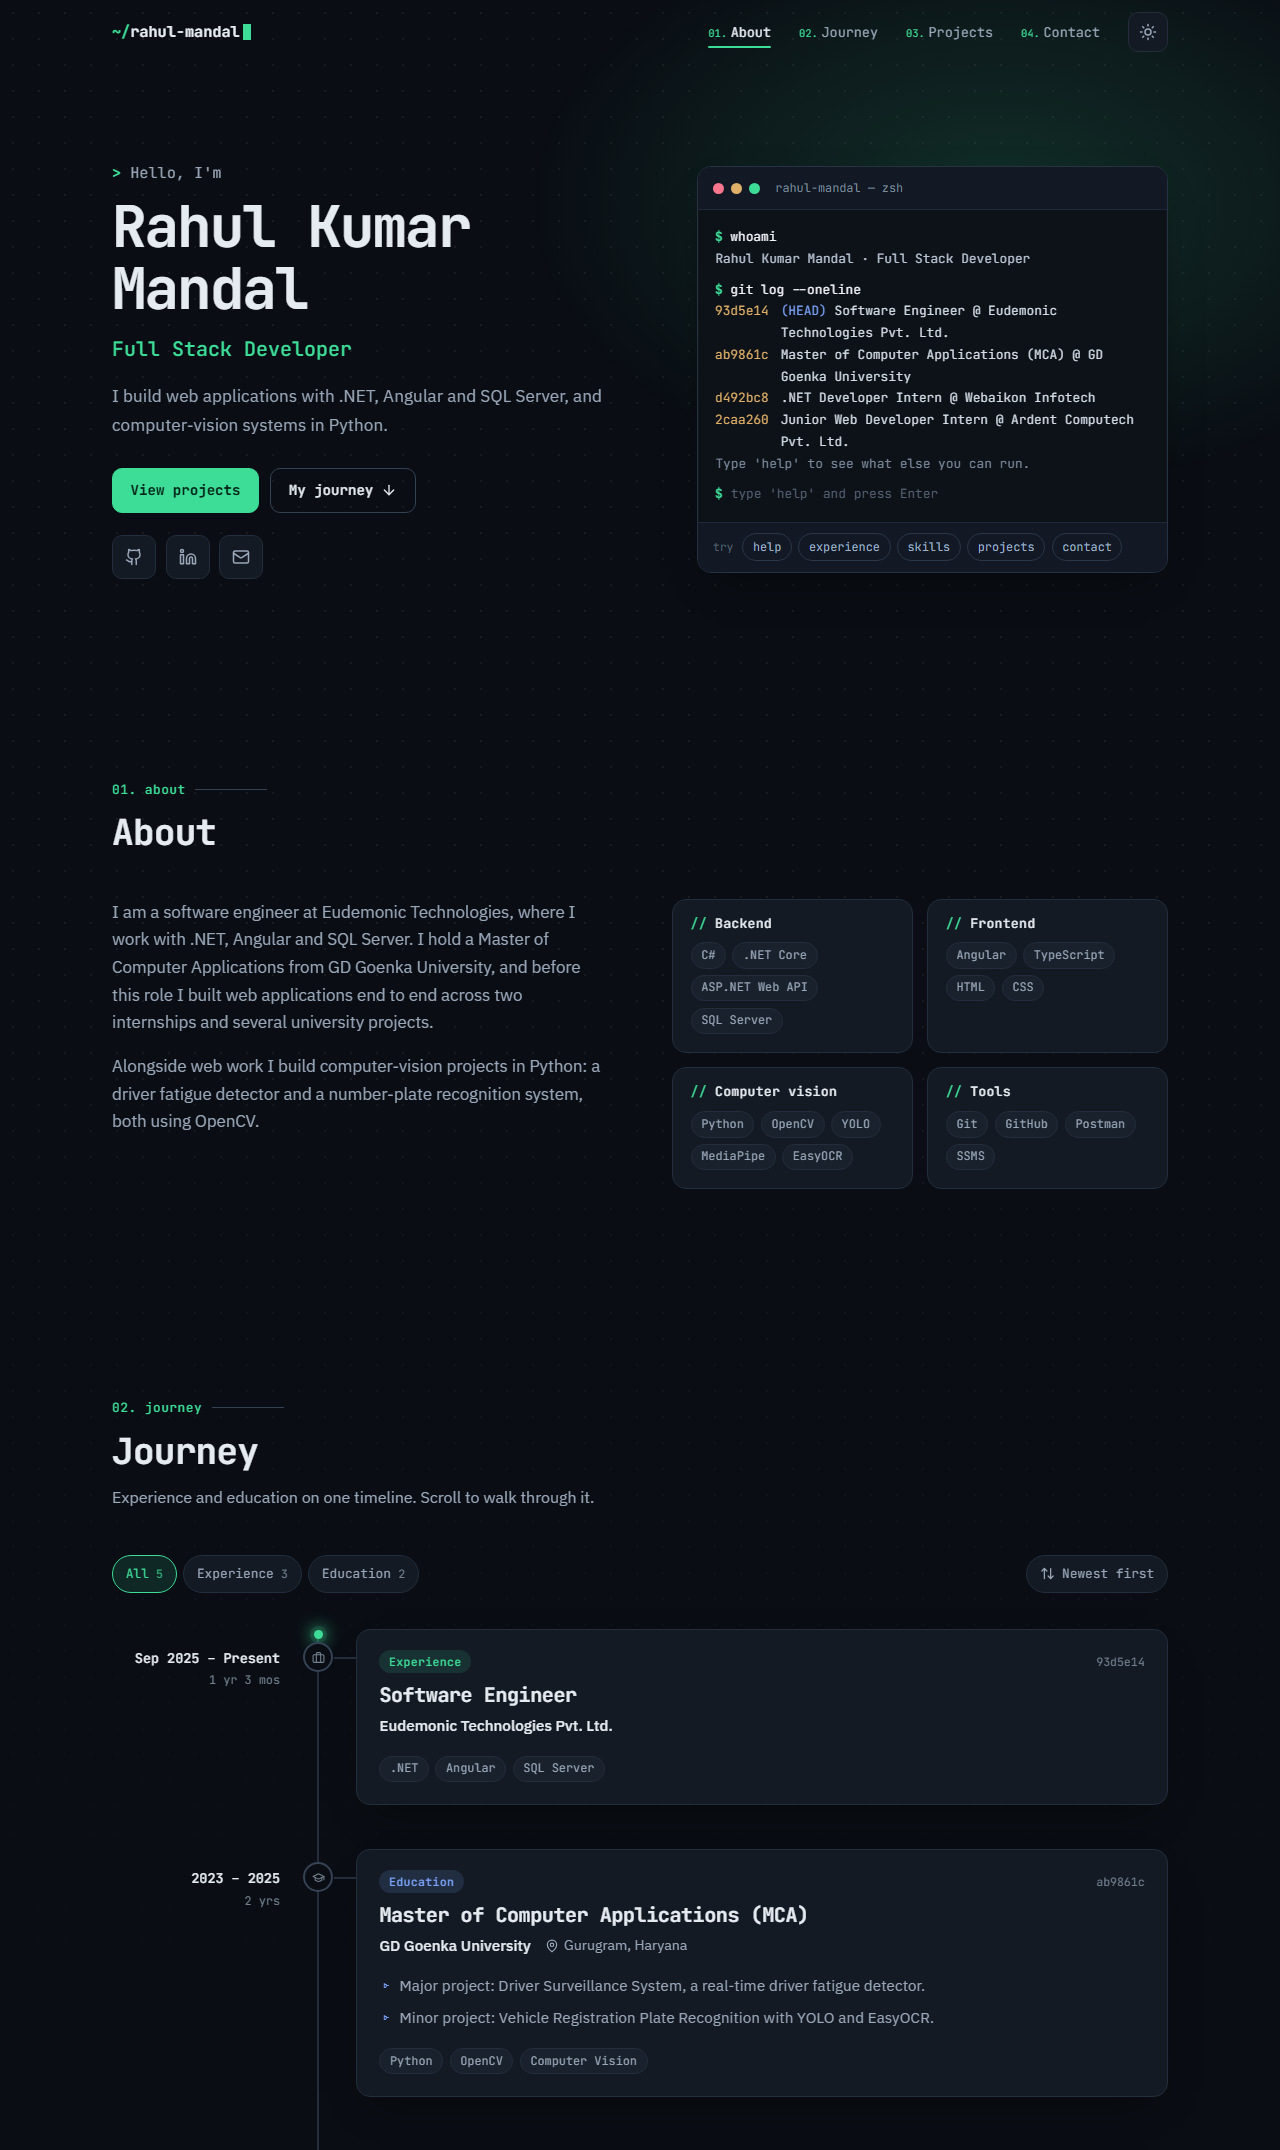
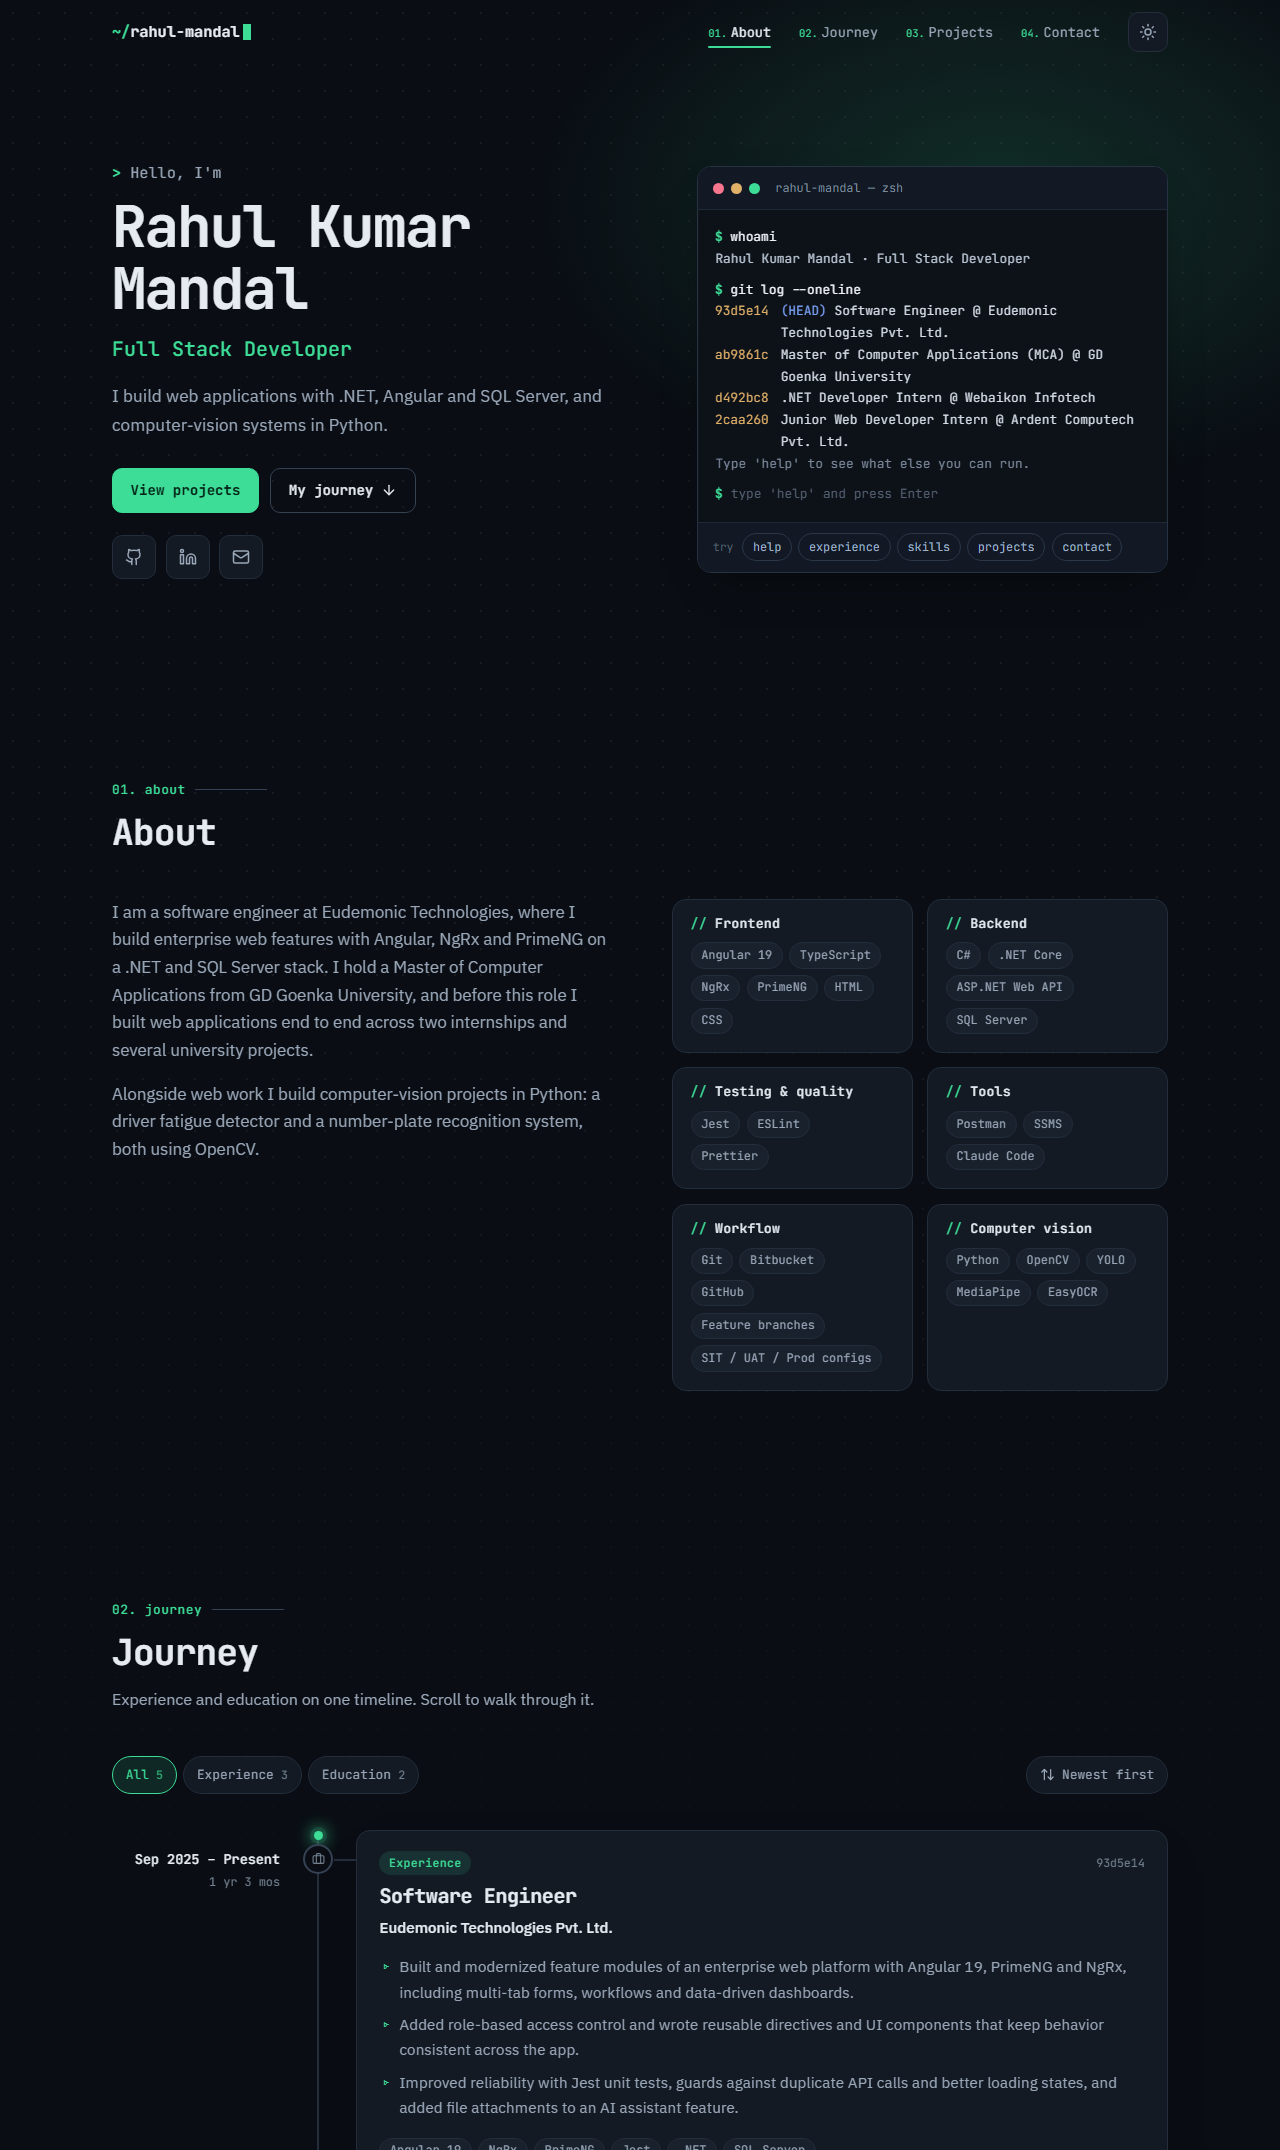
Add Eudemonic highlights and regroup skills
- Timeline: three highlights and updated tags for the Software
  Engineer role at Eudemonic Technologies
- Skills: six groups covering frontend, backend, testing and quality,
  tools, workflow and computer vision (adds NgRx, PrimeNG, Jest,
  ESLint, Prettier, Bitbucket, environment configs, Claude Code)
- Update the About text and the terminal's stack to match

diff --git a/src/app/data/portfolio.data.ts b/src/app/data/portfolio.data.ts
@@ -19,13 +19,13 @@ export const profile: Profile = {
   tagline:
     'I build web applications with .NET, Angular and SQL Server, and computer-vision systems in Python.',
   about: [
-    'I am a software engineer at Eudemonic Technologies, where I work with .NET, Angular and SQL Server. I hold a Master of Computer Applications from GD Goenka University, and before this role I built web applications end to end across two internships and several university projects.',
+    'I am a software engineer at Eudemonic Technologies, where I build enterprise web features with Angular, NgRx and PrimeNG on a .NET and SQL Server stack. I hold a Master of Computer Applications from GD Goenka University, and before this role I built web applications end to end across two internships and several university projects.',
     'Alongside web work I build computer-vision projects in Python: a driver fatigue detector and a number-plate recognition system, both using OpenCV.',
   ],
   email: 'rahulkumar397222@gmail.com',
   github: 'rahulmandal0207',
   linkedin: 'rahurahul-mandal-462a78360',
-  headlineStack: ['.NET Core', 'Angular', 'SQL Server', 'Python', 'OpenCV'],
+  headlineStack: ['Angular', 'TypeScript', 'NgRx', '.NET Core', 'SQL Server', 'Python'],
   // resumeUrl: 'resume.pdf',
 };
 
@@ -58,8 +58,12 @@ export const timeline: TimelineEntry[] = [
     // location: 'City, State',
     start: '2025-09',
     // No `end`, so this shows as "Present".
-    // highlights: ['What you built', 'What changed because of it'],
-    tags: ['.NET', 'Angular', 'SQL Server'],
+    highlights: [
+      'Built and modernized feature modules of an enterprise web platform with Angular 19, PrimeNG and NgRx, including multi-tab forms, workflows and data-driven dashboards.',
+      'Added role-based access control and wrote reusable directives and UI components that keep behavior consistent across the app.',
+      'Improved reliability with Jest unit tests, guards against duplicate API calls and better loading states, and added file attachments to an AI assistant feature.',
+    ],
+    tags: ['Angular 19', 'NgRx', 'PrimeNG', 'Jest', '.NET', 'SQL Server'],
   },
   {
     id: 'gd-goenka-mca',
@@ -198,10 +202,15 @@ export const projects: Project[] = [
 ];
 
 export const skills: SkillGroup[] = [
+  { label: 'Frontend', items: ['Angular 19', 'TypeScript', 'NgRx', 'PrimeNG', 'HTML', 'CSS'] },
   { label: 'Backend', items: ['C#', '.NET Core', 'ASP.NET Web API', 'SQL Server'] },
-  { label: 'Frontend', items: ['Angular', 'TypeScript', 'HTML', 'CSS'] },
+  { label: 'Testing & quality', items: ['Jest', 'ESLint', 'Prettier'] },
+  { label: 'Tools', items: ['Postman', 'SSMS', 'Claude Code'] },
+  {
+    label: 'Workflow',
+    items: ['Git', 'Bitbucket', 'GitHub', 'Feature branches', 'SIT / UAT / Prod configs'],
+  },
   { label: 'Computer vision', items: ['Python', 'OpenCV', 'YOLO', 'MediaPipe', 'EasyOCR'] },
-  { label: 'Tools', items: ['Git', 'GitHub', 'Postman', 'SSMS'] },
 ];
 
 export const certificates: Certificate[] = [
